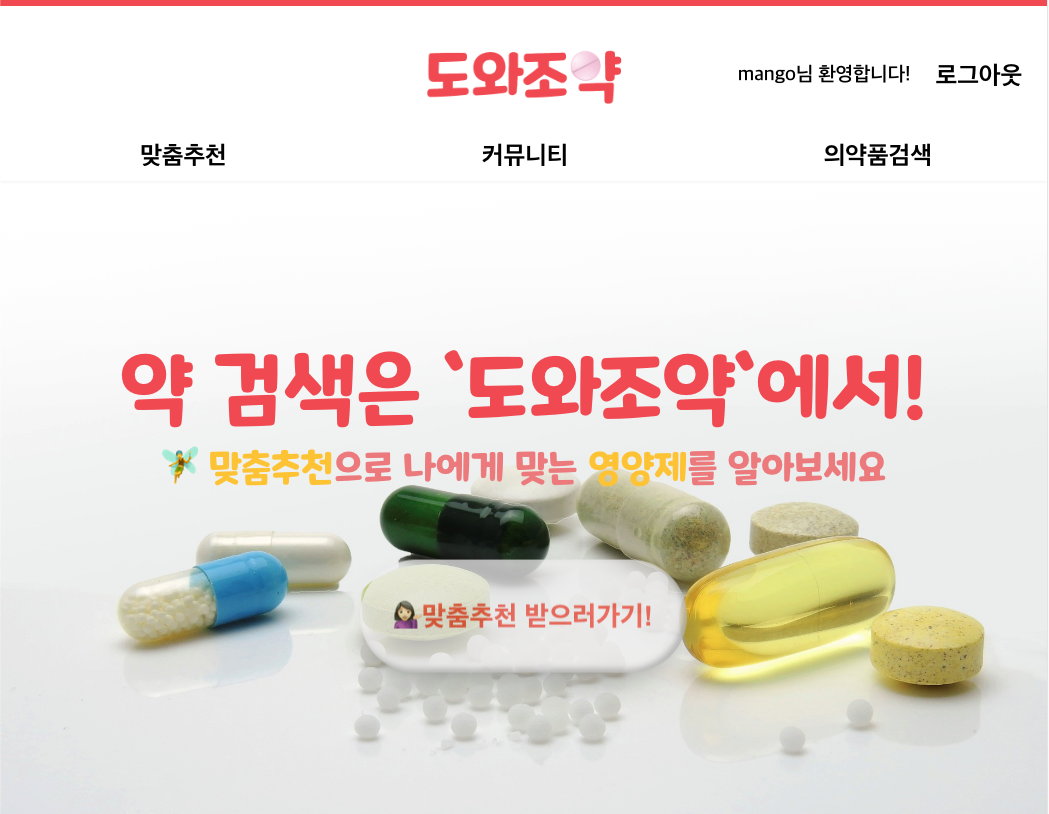
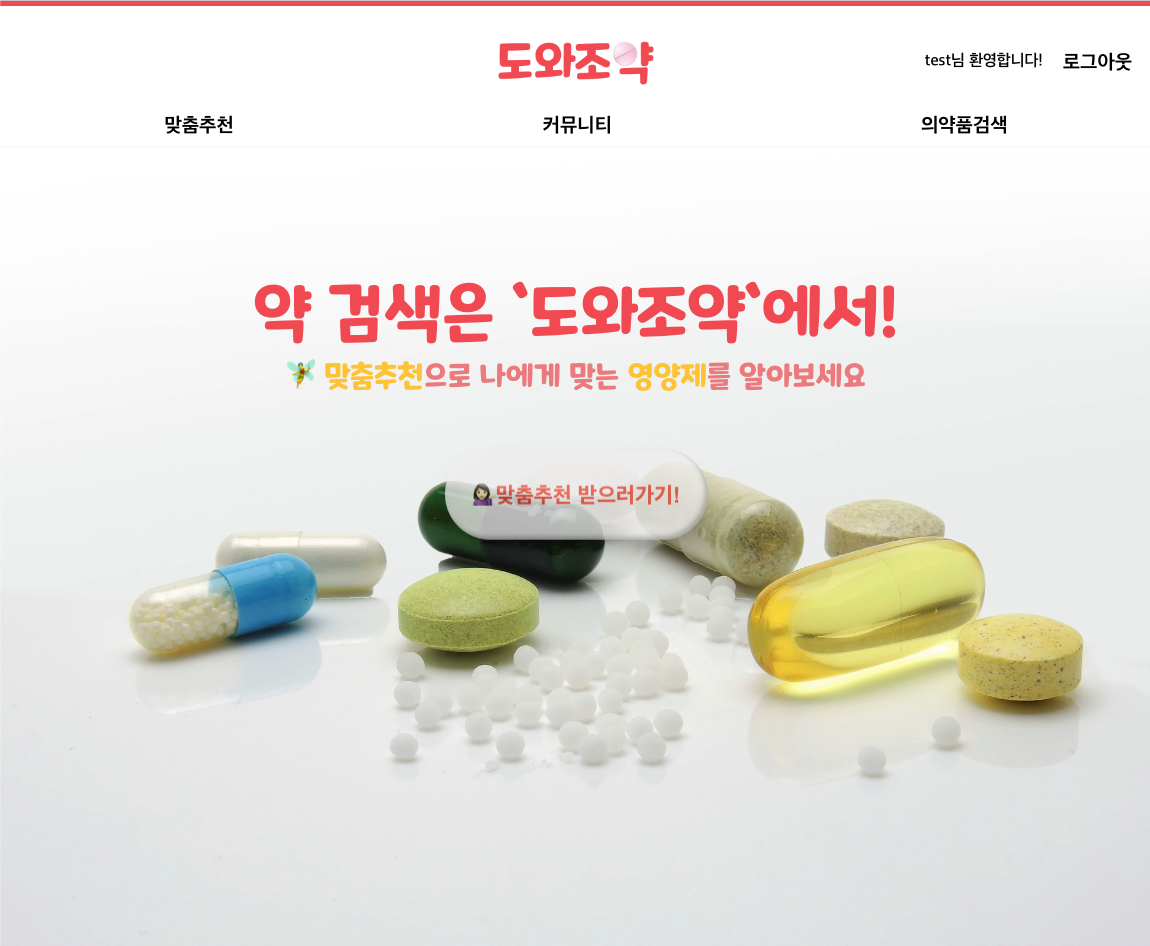
[style]홈페이지 디자인 및 색상 변경

diff --git a/src/page/Main.tsx b/src/page/Main.tsx
@@ -4,8 +4,8 @@ import { Link as ScrollLink } from "react-scroll";
 import { motion } from "framer-motion";
 import yeom from "../assets/yeomsia.jpg";
 import dowajoyak from "../assets/dowajoyak.png";
-import inquery from "../assets/inquery2.png";
-import login from "../assets/login.png";
+
+import signup from "../assets/signup.png";
 import Card from "../components/card";
 import Typewriter from "typewriter-effect";
 import Star from "./Star";
@@ -13,6 +13,11 @@ import person from "../assets/person.png";
 import home from "../assets/marker2.png";
 import birth from "../assets/cake2.png";
 import letter from "../assets/mail.png";
+import petching1 from "../assets/petchinginquery.png";
+import petching2 from "../assets/petching2.png";
+import petching3 from "../assets/login.png";
+import dowajoyak2 from "../assets/dowajoyakwrite.png";
+import dowajoyak3 from "../assets/dowajoyaksearch.png";
 import About from "./About";
 import useDarkModeStore from "../zustand/darkModeStore";
 
@@ -180,7 +185,8 @@ function Main() {
         </div>
         <About />
         <div
-          className={`border-dotted border w-full ${
+          id="project"
+          className={`border-dotted border w-full m-20 ${
             isDarkMode ? "" : "border-gray-400"
           }`}
         ></div>
@@ -197,7 +203,7 @@ function Main() {
             카드 전체 뒤집기
           </button>
         </div>
-        <div className="flex flex-row flex-wrap z-5 justify-center items-center w-full">
+        <div className="flex flex-row flex-wrap z-5 justify-evenly items-center w-2/3">
           <Card
             isFlipped={isFlipped}
             frontImage={dowajoyak}
@@ -211,9 +217,49 @@ function Main() {
             gitLink="https://github.com/codestates-seb/seb43_main_009"
             demoLink="https://dowajoyak.store/"
           />
+
           <Card
             isFlipped={isFlipped}
-            frontImage={login}
+            frontImage={dowajoyak2}
+            frontDescription="도와조약 CRUD"
+            description={{
+              title: "제목",
+              subtitle: "부제목",
+              tech: "# Tech : React,CSS",
+              work: "# Work : css 스타일링",
+            }}
+            gitLink="git repository 링크"
+            demoLink="Demo 링크"
+          />
+          <Card
+            isFlipped={isFlipped}
+            frontImage={dowajoyak3}
+            frontDescription="도와조약 의약품 검색"
+            description={{
+              title: "제목",
+              subtitle: "부제목",
+              tech: "# Tech : React,CSS",
+              work: "# Work : css 스타일링",
+            }}
+            gitLink="git repository 링크"
+            demoLink="Demo 링크"
+          />
+          <Card
+            isFlipped={isFlipped}
+            frontImage={petching2}
+            frontDescription="펫칭 F&Q"
+            description={{
+              title: "제목",
+              subtitle: "부제목",
+              tech: "# Tech : React,CSS",
+              work: "# Work : css 스타일링",
+            }}
+            gitLink="git repository 링크"
+            demoLink="Demo 링크"
+          />
+          <Card
+            isFlipped={isFlipped}
+            frontImage={signup}
             frontDescription="펫칭 로그인"
             description={{
               title: "제목",
@@ -226,7 +272,7 @@ function Main() {
           />
           <Card
             isFlipped={isFlipped}
-            frontImage={inquery}
+            frontImage={petching1}
             frontDescription="펫칭 문의하기"
             description={{
               title: "제목",
@@ -239,47 +285,8 @@ function Main() {
           />
           <Card
             isFlipped={isFlipped}
-            frontImage={inquery}
-            frontDescription="펫칭 문의하기"
-            description={{
-              title: "제목",
-              subtitle: "부제목",
-              tech: "# Tech : React,CSS",
-              work: "# Work : css 스타일링",
-            }}
-            gitLink="git repository 링크"
-            demoLink="Demo 링크"
-          />
-          <Card
-            isFlipped={isFlipped}
-            frontImage={inquery}
-            frontDescription="펫칭 문의하기"
-            description={{
-              title: "제목",
-              subtitle: "부제목",
-              tech: "# Tech : React,CSS",
-              work: "# Work : css 스타일링",
-            }}
-            gitLink="git repository 링크"
-            demoLink="Demo 링크"
-          />
-          <Card
-            isFlipped={isFlipped}
-            frontImage={inquery}
-            frontDescription="펫칭 문의하기"
-            description={{
-              title: "제목",
-              subtitle: "부제목",
-              tech: "# Tech : React,CSS",
-              work: "# Work : css 스타일링",
-            }}
-            gitLink="git repository 링크"
-            demoLink="Demo 링크"
-          />
-          <Card
-            isFlipped={isFlipped}
-            frontImage={inquery}
-            frontDescription="펫칭 문의하기"
+            frontImage={petching3}
+            frontDescription="펫칭 회원가입"
             description={{
               title: "제목",
               subtitle: "부제목",
@@ -290,13 +297,13 @@ function Main() {
             demoLink="Demo 링크"
           />
         </div>
-        {/* ---
         <div
-          id="skills"
-          className="flex m-4 p-4 border-2 border-gray-300 rounded-lg w-2/3 h-full"
-        >
-          이런것을 좋아합니다
-        </div> */}
+          className={`border-dotted border w-full m-20 ${
+            isDarkMode ? "" : "border-gray-400"
+          }`}
+        ></div>
+
+        <h1 id="skills">skills 준비중</h1>
       </div>
     </>
   );

diff --git a/src/page/About.tsx b/src/page/About.tsx
@@ -26,12 +26,11 @@ const About = () => {
               isDarkMode ? "text-gray-200" : ""
             }`}
           >
-            나만의 공간을 만드는 것을 좋아합니다. <br />
-            직접만들어낸다는 호기심에 혼자서 관련영상과 서적을 찾아서 시도하기
-            시작해보면서 <br />
-            자연스럽게 개발에 흥미를 가지게 되었습니다. <br />
-            수많은 경험과 도전을 통해서 다양한 기술 스택을 쌓아 <br />
-            회사와 같이 성장할 수 있는 인재가 되고싶습니다.
+            가장 좋아하는 것은 바로 나만의 공간을 만드는 것입니다. 이 공간 역시
+            제 호기심과 창의력이 만나 탄생한 곳이죠:) 관련 영상과 서적을 통해
+            배운 지식을 활용해 직접 만들어보면서, 개발에 대한 흥미를 자연스레
+            느끼는중입니다. 이러한 경험과 도전을 통해 다양한 기술 스택을
+            쌓아왔고, 이를 바탕으로 회사와 함께 성장하는 인재가 되고자 합니다.
           </div>
         </div>
         <div
@@ -39,17 +38,21 @@ const About = () => {
             isDarkMode ? "bg-[#7C81AD]" : ""
           } p-8 m-4 border border-gray-300 rounded-lg shadow-md`}
         >
-          <span className="text-2xl font-bold text-[#F58634]">2. 도전 :</span>
+          <span className="text-2xl font-bold text-[#F58634]">
+            2. 가치있는 도전 :
+          </span>
           <div
             className={`text-base md:text-lg mt-2 p-4 ${
               isDarkMode ? "text-gray-200" : ""
             }`}
           >
-            대학교에서 배운 전공인 회계는 배운 지식을 확대하는데에는 한계가
-            있다고 느꼈습니다. <br />
-            그러던 중 인터넷 강의 영상으로 프로그래밍에 입문에 도전! <br />
-            만든 코드에 따라 화면에 바로 적용되고 실시간으로 확인할 수 있다는
-            점이 매력적으로 다가왔습니다. <br />
+            {`대학교에서 배운 전공인 회계는 배운 지식을 확대하는데에는 한계가
+            있다고 느꼈습니다.
+            
+            그래서 저는 새로운 도전을 결심하게 되었죠 :>
+
+            인터넷 강의를 통해 프로그래밍에 입문하게 되었고, 제가 작성한 코드가
+            화면에 바로 적용되는 것을 실시간으로 확인하는걸 즐깁니다.`}
           </div>
         </div>
         <div
@@ -58,17 +61,17 @@ const About = () => {
           } p-8 m-4 border border-gray-300 rounded-lg shadow-md`}
         >
           <span className="text-2xl font-bold  text-[#D2DE32]">
-            3. 친숙함 :{" "}
+            3. 친숙함을 느끼게 하는 개발자 :{" "}
           </span>
           <div
             className={`text-base md:text-lg mt-2 p-4 ${
               isDarkMode ? "text-gray-200" : ""
             }`}
           >
-            웹사이트마다 사용자가 필요로 하는 기능을 가지게 합니다. 사용자의
-            편리성과 접근성을 높이고, 깔끔한 페이지를 제작하기 위해서 다양한
-            코드와 툴을 사용하는걸 좋아합니다. 좀 더 사용자의 입장에서 바라볼 수
-            있는 친밀한 개발자입니다.
+            개발자로서 저는 다양한 코드와 도구를 사용하여 사용자 편의성과
+            접근성을 향상하고 시각적으로 매력적인 페이지를 만드는 데 주력하고
+            있습니다. 사용자의 편리성과 접근성을 높이고, 깔끔한 페이지를
+            제작하기 위해서 다양한 코드와 툴을 사용하는걸 좋아합니다.
           </div>
         </div>
       </div>

diff --git a/src/components/card.tsx b/src/components/card.tsx
@@ -43,12 +43,12 @@ export const Card: React.FC<CardProps> = ({
         onClick={handleClick}
         style={{ fontFamily: "Dongle" }}
       >
-        <div className="front m-4 p-4 border-2 border-gray-300 rounded-lg w-1/2 h-2/3">
+        <div className="front m-4 p-4 border-2 border-gray-300 rounded-lg w-1/2 md:w-1/2 h-2/3">
           <img src={frontImage} alt="front" />
           <span>{frontDescription}</span>
           <p>상세정보</p>
         </div>
-        <div className="back m-4 p-4 border-2 border-gray-300 rounded-lg w-1/2 h-2/3">
+        <div className="back m-4 p-4 border-2 border-gray-300 rounded-lg w-1/2 md:w-1/2h-2/3">
           <article>
             <h1 className="title">{description.title}</h1>
             <h2 className="subtitle">- {description.subtitle}</h2>

diff --git a/src/components/Card.css b/src/components/Card.css
@@ -1,11 +1,25 @@
 .card {
   width: 550px;
-  height: 430px;
+  height: 450px;
   perspective: 2000px;
   position: relative;
   margin-bottom: 40px;
   cursor: pointer;
   margin: 40px;
+}
+
+@media screen and (max-width: 950px) {
+  .card {
+    width: 400px;
+    height: 330px;
+  }
+}
+
+@media screen and (max-width: 590px) {
+  .card {
+    width: 300px;
+    height: 240px;
+  }
 }
 
 .card div {

diff --git a/src/page/Star.tsx b/src/page/Star.tsx
@@ -31,7 +31,7 @@ const Star: React.FC<StarProps> = ({ isDarkMode }) => {
 
   return (
     <div id="stars" className={isDarkMode ? "dark-mode" : ""} ref={starRef}>
-      <div className="circle">
+      <div className={isDarkMode ? "dark-mode circle" : "circle"}>
         <div className="text-box">
           <div className="text">
             <motion.div

diff --git a/src/page/Star.css b/src/page/Star.css
@@ -43,10 +43,15 @@
   background: #fff;
   border-radius: 50%;
   transform: translate(-50%, -50%);
-  background-color: #ffcd4b;
+  background-color: #ffa732;
   z-index: 1;
   box-shadow: 10px 10px 15px rgba(0, 0, 0, 0.5);
 }
+
+.circle.dark-mode {
+  background-color: #ffcd4b;
+}
+
 .text-box {
   position: relative;
   display: flex;

diff --git a/src/page/Main.css b/src/page/Main.css
@@ -4,7 +4,7 @@
 }
 
 .header {
-  font-family: "OG_Renaissance_Secret-Rg";
+  font-family: "Dovemayo_gothic";
   color: white;
 }
 
